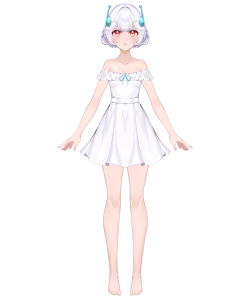
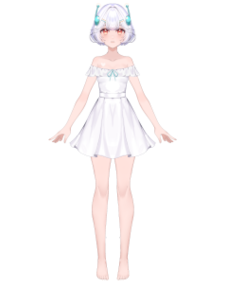
Add ReadyToRaidCard, Added image for Strike, modified main char image

Changed region(s): [[0.196, 0.0, 0.784, 0.99], [0.532, 0.45, 0.56, 0.48], [0.448, 0.45, 0.476, 0.48]]

diff --git a/src/main/java/EllieMinibot/cards/powercards/ReadyToRaidCard.java b/src/main/java/EllieMinibot/cards/powercards/ReadyToRaidCard.java
@@ -1,0 +1,34 @@
+package EllieMinibot.cards.powercards;
+import EllieMinibot.actions.EasyXCostAction;
+import EllieMinibot.cards.AbstractEasyCard;
+import com.megacrit.cardcrawl.actions.AbstractGameAction;
+import com.megacrit.cardcrawl.characters.AbstractPlayer;
+import com.megacrit.cardcrawl.monsters.AbstractMonster;
+import com.megacrit.cardcrawl.powers.StrengthPower;
+
+import static EllieMinibot.ModFile.makeID;
+import static EllieMinibot.util.Wiz.*;
+
+public class ReadyToRaidCard  extends AbstractEasyCard {
+    public final static String ID = makeID("ReadyToRaid");
+    // intellij stuff power, self, uncommon
+
+    public ReadyToRaidCard() {
+        super(ID, -1, CardType.SKILL, CardRarity.UNCOMMON, CardTarget.ENEMY);
+        baseMagicNumber = magicNumber = 0;
+        exhaust = true;
+    }
+
+    public void use(AbstractPlayer p, AbstractMonster m) {
+        atb(new EasyXCostAction(this, (effect, params) -> {
+            applyToEnemyTop(m, new StrengthPower(m, -(effect + params[0])));
+            return true;
+        }, magicNumber));
+
+    }
+
+    @Override
+    public void upp() {
+        upgradeMagicNumber(1);
+    }
+}

diff --git a/src/main/java/EllieMinibot/CharacterFile.java b/src/main/java/EllieMinibot/CharacterFile.java
@@ -1,6 +1,7 @@
 package EllieMinibot;
 
 import EllieMinibot.cards.attackcards.RawSpaghettiCard;
+import EllieMinibot.cards.powercards.ReadyToRaidCard;
 import EllieMinibot.cards.skillcards.IceCubeChallengeCard;
 import basemod.abstracts.CustomEnergyOrb;
 import basemod.abstracts.CustomPlayer;
@@ -69,6 +70,7 @@ public class CharacterFile extends CustomPlayer {
         }
         retVal.add(RawSpaghettiCard.ID);
         retVal.add(IceCubeChallengeCard.ID);
+        retVal.add(ReadyToRaidCard.ID);
         return retVal;
     }
 
